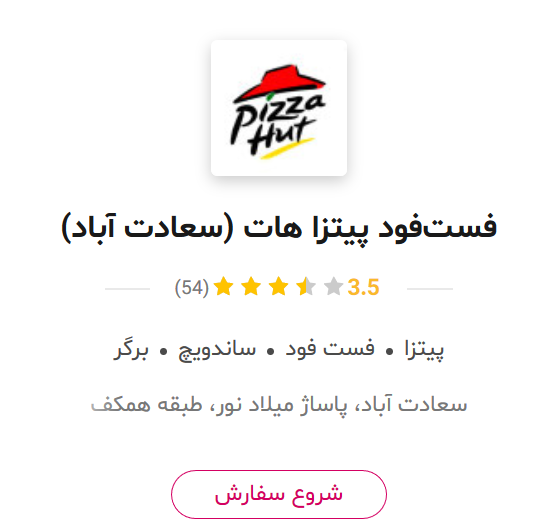
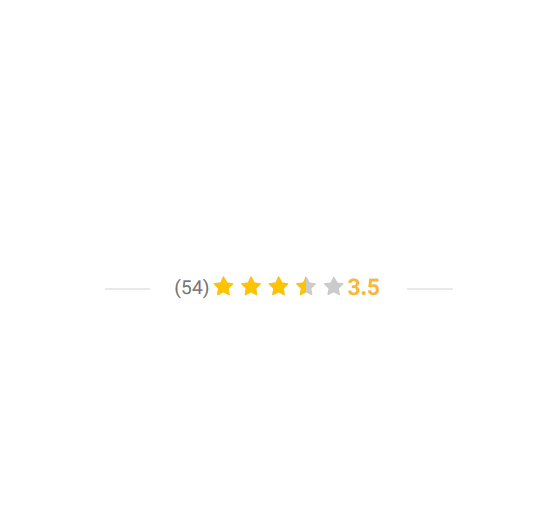
Some changes on CSS

diff --git a/assets/main.css b/assets/main.css
@@ -396,6 +396,101 @@ clear:none;
 	
 }
 
+#resP1{
+	font-weight: bold;
+	text-align: center;
+	font-size: 1.9rem;
+	line-height: 3rem;
+	margin-top:6px;
+	color: black;
+	background-color: transparent;
+}
+
+#resFood1{
+
+	text-align: center;
+	font-size: 1.2rem;
+	line-height: 3rem;
+	margin-top:40px;
+	color:  	rgb(96,96,96);
+	background-color: transparent;
+}
+
+#resAdd1{
+	background-image: linear-gradient(270deg,rgb(128,128,128) 60%,rgba(0,0,0,0));
+    -webkit-background-clip: text;
+    -webkit-text-fill-color: transparent;
+	text-align: center;
+	font-size: 1.2rem;
+	line-height: 3rem;
+	margin-top:-15px;
+	color: 	rgb(144,144,144);
+	background-color: transparent;
+}
+
+#resP2{
+	font-weight: bold;
+	text-align: center;
+	font-size: 1.9rem;
+	line-height: 3rem;
+	margin-top:6px;
+	color: black;
+	background-color: transparent;
+}
+
+#resFood2{
+
+	text-align: center;
+	font-size: 1.2rem;
+	line-height: 3rem;
+	margin-top:40px;
+	color:  	rgb(96,96,96);
+	background-color: transparent;
+}
+
+#resAdd2{
+	background-image: linear-gradient(270deg,rgb(128,128,128) 60%,rgba(0,0,0,0));
+    -webkit-background-clip: text;
+    -webkit-text-fill-color: transparent;
+	text-align: center;
+	font-size: 1.2rem;
+	line-height: 3rem;
+	margin-top:-15px;
+	color: 	rgb(144,144,144);
+	background-color: transparent;
+}
+
+#resP3{
+	font-weight: bold;
+	text-align: center;
+	font-size: 1.9rem;
+	line-height: 3rem;
+	margin-top:6px;
+	color: black;
+	background-color: transparent;
+}
+
+#resFood3{
+
+	text-align: center;
+	font-size: 1.2rem;
+	line-height: 3rem;
+	margin-top:40px;
+	color:  	rgb(96,96,96);
+	background-color: transparent;
+}
+
+#resAdd3{
+	background-image: linear-gradient(270deg,rgb(128,128,128) 60%,rgba(0,0,0,0));
+    -webkit-background-clip: text;
+    -webkit-text-fill-color: transparent;
+	text-align: center;
+	font-size: 1.2rem;
+	line-height: 3rem;
+	margin-top:-15px;
+	color: 	rgb(144,144,144);
+	background-color: transparent;
+}
 
 
 #container2 {
@@ -404,7 +499,7 @@ clear:none;
 	position:absolute;
 	left: 0;
 right: 0;
-	margin: 50px;
+	margin: 60px;
 		
     height: 125px;
     
@@ -417,7 +512,7 @@ right: 0;
 }
 
 .box4{
-	
+	position: reletive;
 	background: url(../Images/box4.png);
 	height: 0.01px;
 	background-position:right;
@@ -434,6 +529,63 @@ right: 0;
     zoom: 1	
 	
 }
+
+#res1{
+	
+	background: url(../Images/hut1.png);
+	background-position:right;
+	background-repeat: no-repeat;
+	background-size: 100% 100%;
+	position: static;
+	margin-left: auto;
+	margin-right: auto;
+	margin-top:30px;
+	right: 20px;
+    height:100px;
+    width:100px;
+	background: white;
+	box-shadow: 3px 3px 10px 1px  #ccc;
+		
+}
+
+
+#res2{
+	
+	background: url(../Images/hut1.png);
+	background-position:right;
+	background-repeat: no-repeat;
+	background-size: 100% 100%;
+	position: static;
+	margin-left: auto;
+	margin-right: auto;
+	margin-top:30px;
+	right: 20px;
+    height:100px;
+    width:100px;
+	background: white;
+	box-shadow: 3px 3px 10px 1px  #ccc;
+		
+}
+
+
+#res3{
+	
+	background: url(../Images/hut1.png);
+	background-position:right;
+	background-repeat: no-repeat;
+	background-size: 100% 100%;
+	position: static;
+	margin-left: auto;
+	margin-right: auto;
+	margin-top:30px;
+	right: 20px;
+    height:100px;
+    width:100px;
+	background: white;
+	box-shadow: 3px 3px 10px 1px  #ccc;
+		
+}
+
 .box5{
 	background: url(../Images/box5.png);
 	height: 0.01px;
@@ -490,7 +642,7 @@ clear:none;}
 
 .shoro{
 	position: absolute;
-	 margin-top: 325px;
+	 margin-top: -10px;
 	 margin-right: 108px;
 	border-radius: 20px;
     height:36px;

diff --git a/JS/main.js b/JS/main.js
@@ -28,7 +28,24 @@ var xmlhttp = new XMLHttpRequest();
 xmlhttp.onreadystatechange = function() {
   if (this.readyState == 4 && this.status == 200) {
     var myObj = JSON.parse(this.responseText);
-    for(i = 3; i < myObj.restaurants.length; i++){
+	document.getElementById("res1").style.background= "url("+myObj.restaurants[0].imgUrl+")";
+	document.getElementById("res1").style.backgroundSize = "100% 100%" ;
+	document.getElementById("resP1").innerHTML=myObj.restaurants[0].name;
+	document.getElementById("resFood1").innerHTML=myObj.restaurants[0].foods[0]+" &bull; "+myObj.restaurants[0].foods[1]+" &bull; "+myObj.restaurants[0].foods[2]+" &bull; "+myObj.restaurants[0].foods[3];
+    document.getElementById("resAdd1").innerHTML=myObj.restaurants[0].address;	
+	
+	document.getElementById("res2").style.background= "url("+myObj.restaurants[1].imgUrl+")";
+	document.getElementById("res2").style.backgroundSize = "100% 100%" ;
+	document.getElementById("resP2").innerHTML=myObj.restaurants[1].name;
+	document.getElementById("resFood2").innerHTML=myObj.restaurants[1].foods[0]+" &bull; "+myObj.restaurants[1].foods[1]+" &bull; "+myObj.restaurants[1].foods[2]+" &bull; "+myObj.restaurants[0].foods[3];
+    document.getElementById("resAdd2").innerHTML=myObj.restaurants[1].address;	
+	
+	document.getElementById("res3").style.background= "url("+myObj.restaurants[2].imgUrl+")";
+	document.getElementById("res3").style.backgroundSize = "100% 100%" ;
+	document.getElementById("resP3").innerHTML=myObj.restaurants[2].name;
+	document.getElementById("resFood3").innerHTML=myObj.restaurants[2].foods[0]+" &bull; "+myObj.restaurants[2].foods[1]+" &bull; "+myObj.restaurants[2].foods[2]+" &bull; "+myObj.restaurants[0].foods[3];
+    document.getElementById("resAdd3").innerHTML=myObj.restaurants[2].address;
+	for(i = 3; i < myObj.restaurants.length; i++){
 		var c = document.getElementById("j"+i);
 		//var b = document.getElementsByClassName("r"+i);
 		msg = myObj.restaurants[i];

diff --git a/src/main.html b/src/main.html
@@ -34,10 +34,7 @@
 			
 			<p class="m2" >برای دیدن لیست رستورانها و فستفودهایی که به شما سرویس میدهند، منطقه خود را وارد کنید.</p>
 			
-				  <script type="text/javascript">
-							loadHomePage();
-							
-						</script>
+
 			
 			<div class="searchBox">
 			
@@ -96,16 +93,28 @@
 			<div id="container2">
 			
 			<div class="box4">
+				<div id="res1" > </div>
+				<p id="resP1"> فست فود پیتزا</p>
+				<p id="resFood1"> فست فود  &bull; پیتزا</p>
+				<p id="resAdd1"> فست فود  &bull; پیتزا</p>
 				<div class="shoro">
 				<p class="shoroP"> شروع سفارش</p>
 				</div>
 			</div>
 			<div class="box5">
+				<div id="res2" > </div>
+				<p id="resP2"> فست فود پیتزا</p>
+				<p id="resFood2"> فست فود  &bull; پیتزا</p>
+				<p id="resAdd2"> فست فود  &bull; پیتزا</p>
 				<div class="shoro">
 				<p class="shoroP"> شروع سفارش</p>
 				</div>
 			</div>
 			<div class="box6">
+				<div id="res3" > </div>
+				<p id="resP3"> فست فود پیتزا</p>
+				<p id="resFood3"> فست فود  &bull; پیتزا</p>
+				<p id="resAdd3"> فست فود  &bull; پیتزا</p>
 				<div class="shoro">
 				<p class="shoroP"> شروع سفارش</p>
 				</div>
@@ -170,13 +179,15 @@
 			</div>
 			
 			
+
+
+		
+		</div>
+		
 						<script type="text/javascript">
 							loadJSON1();
 							
 						</script>
-
-		
-		</div>
 		
 		
 		<div class="part5">

diff --git a/JS/login.js b/JS/login.js
@@ -1,7 +1,3 @@
-
-
-
-
 function loginClickL()
 {
 $( ".middle" ).load("../src/login.html");
@@ -15,5 +11,4 @@ function loginClickR()
 $( ".middle" ).load("../src/register.html");
 //$( ".middle" ).css(z-index:9)
 }
-
 

diff --git a/src/login.html b/src/login.html
@@ -1,4 +1,4 @@
-<!DOCTYPE html>
+<!DOCTYPE html>
 <html lang="fa-IR">
 <html>
 <head>

diff --git a/src/register.html b/src/register.html
@@ -1,4 +1,4 @@
-<!DOCTYPE html>
+<!DOCTYPE html>
 <html lang="fa-IR">
 <html>
 <head>
